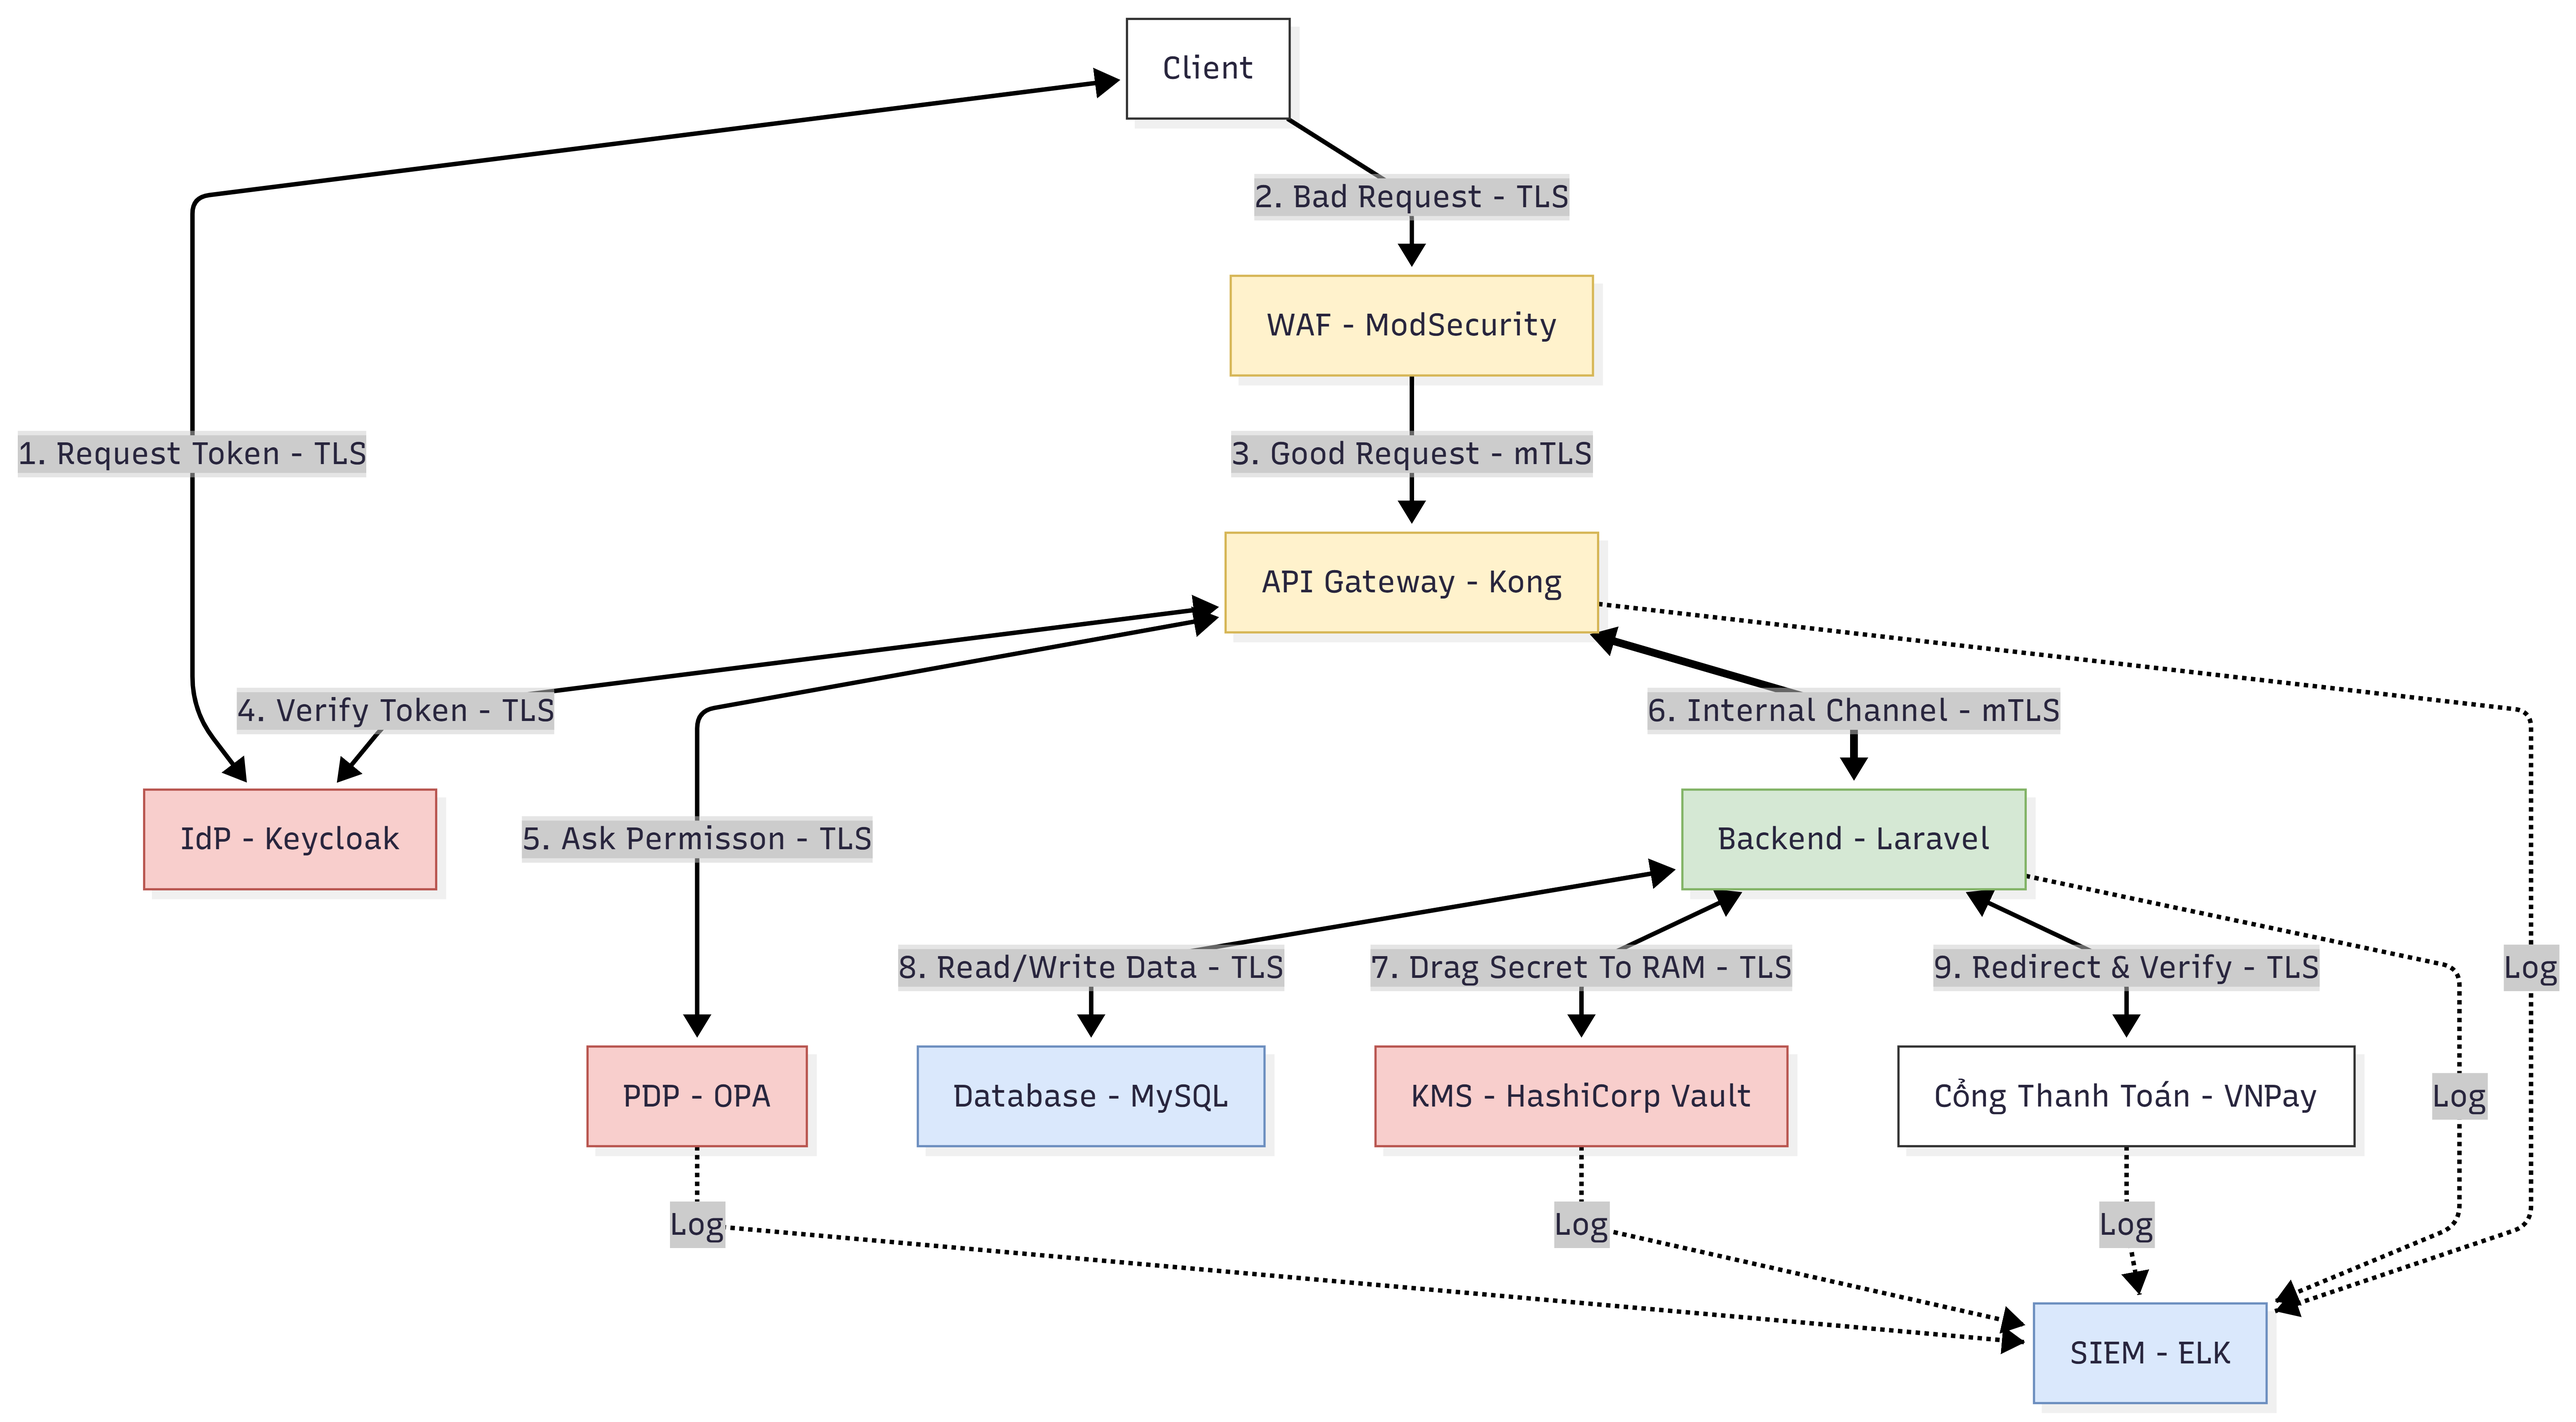
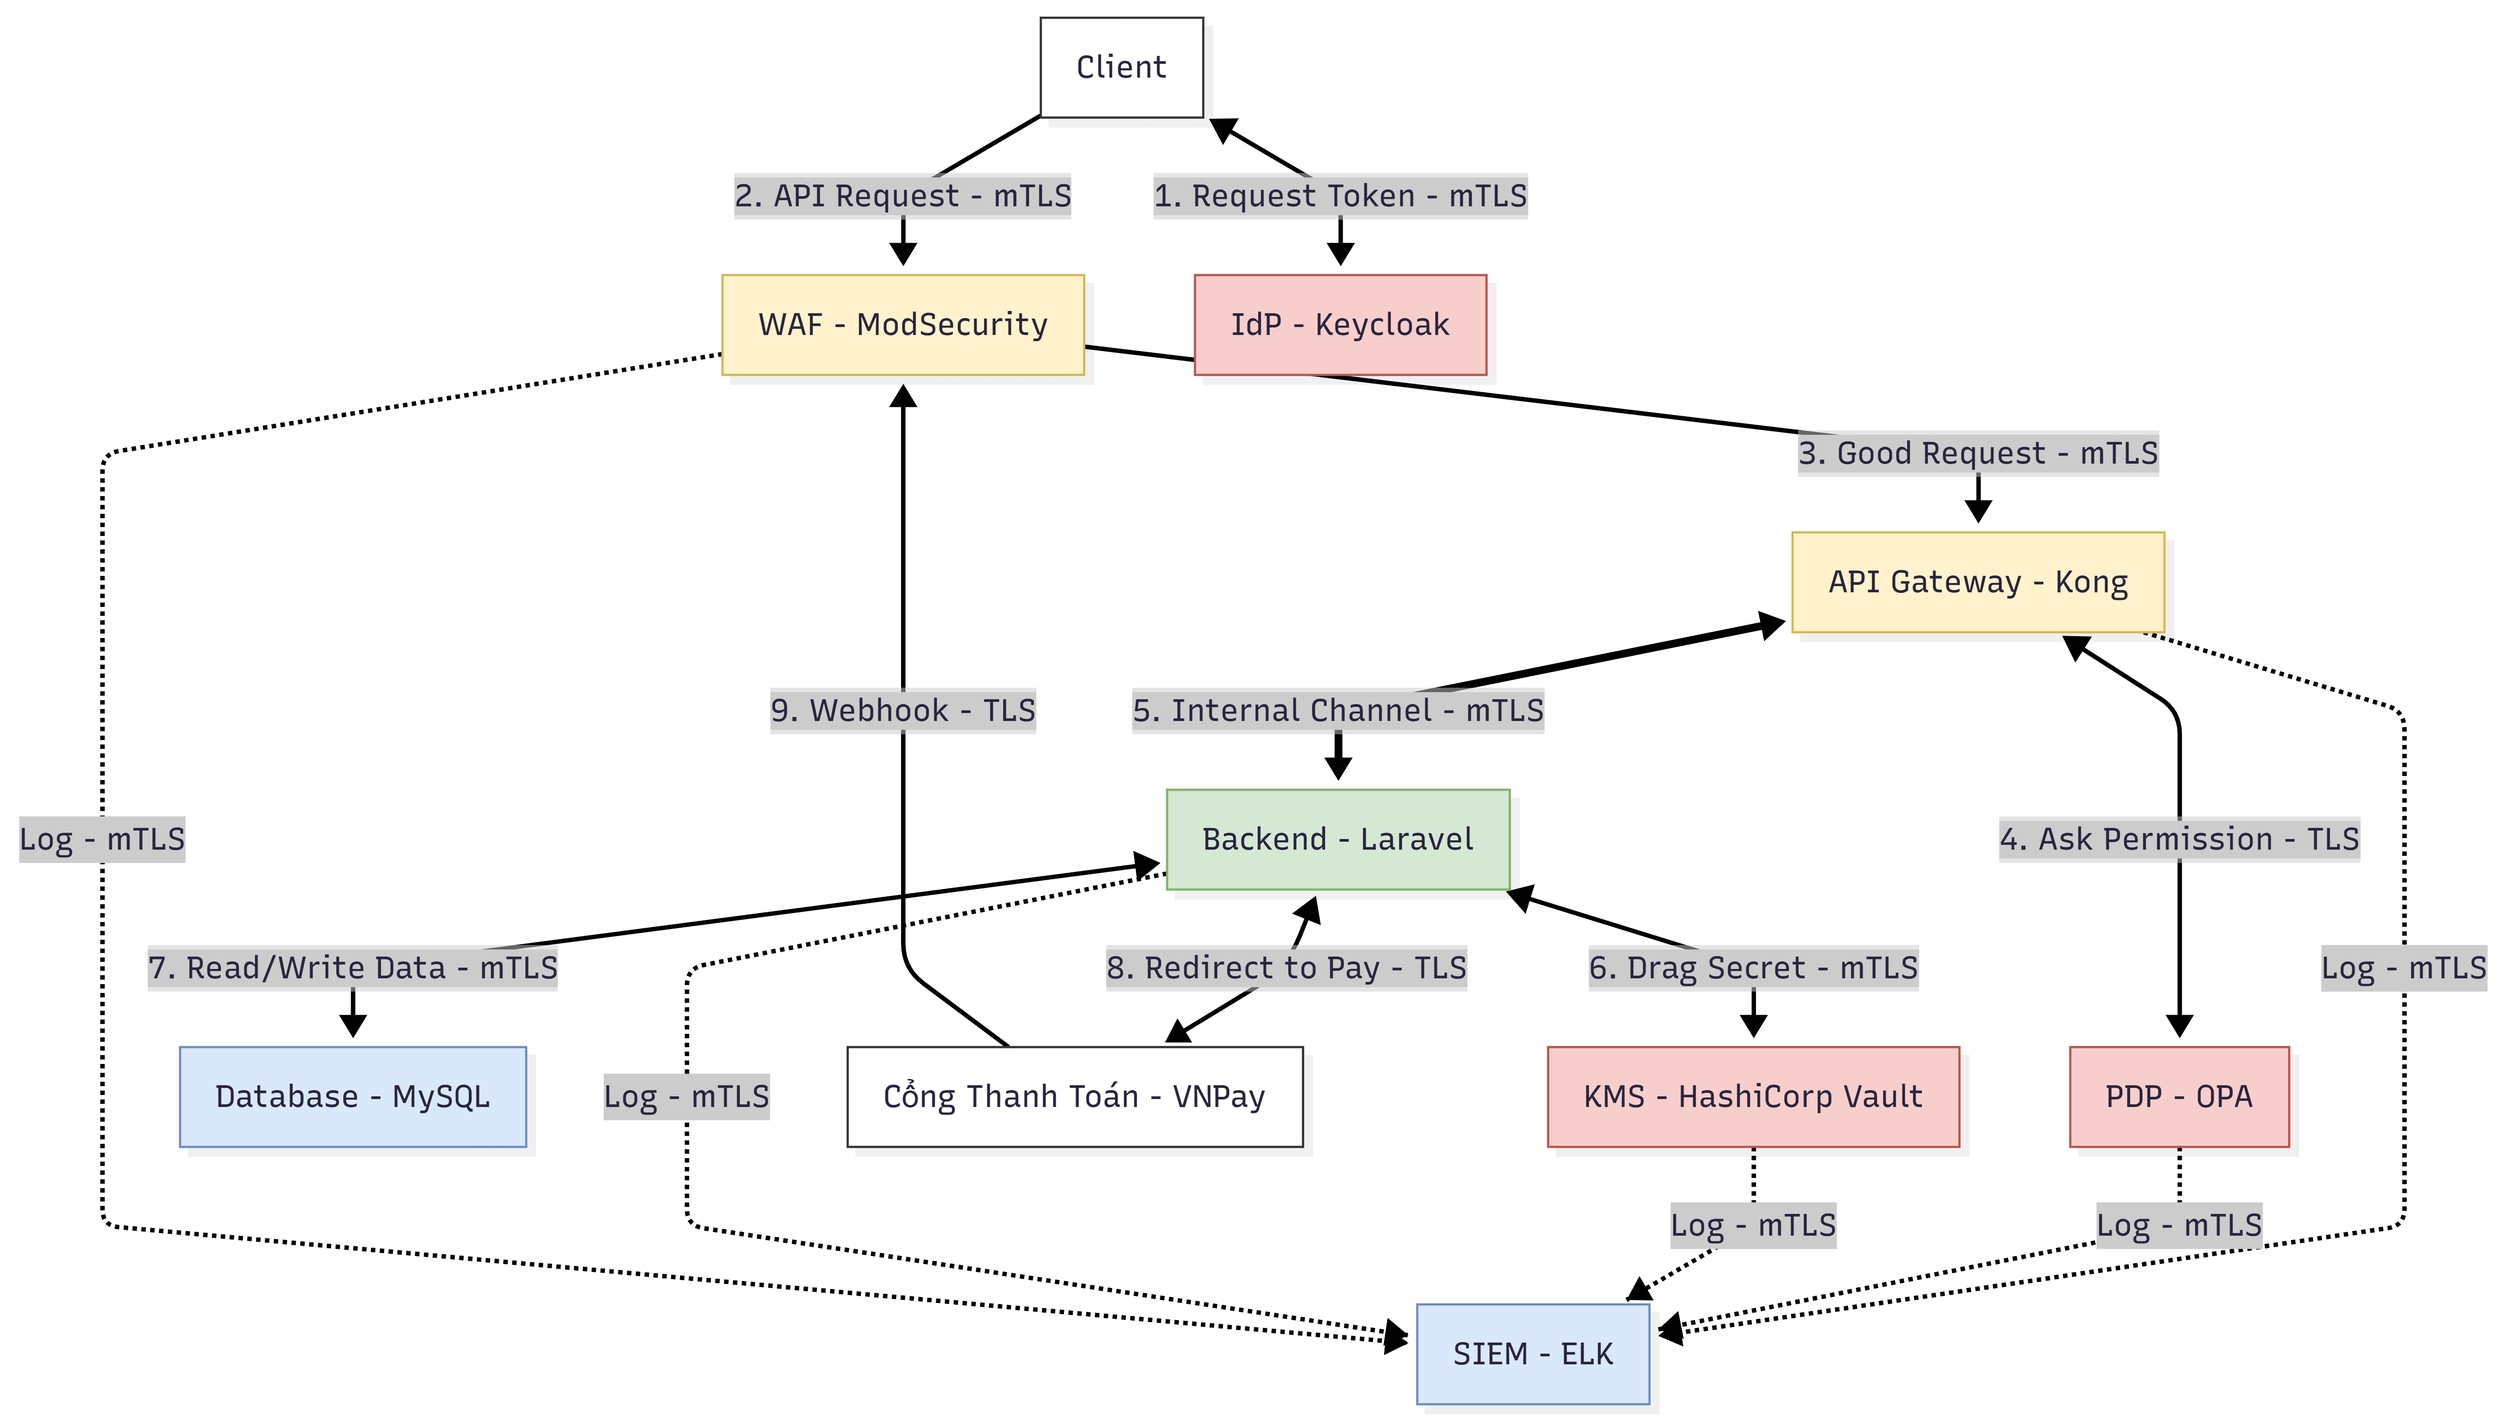
Temp Fix

diff --git a/services/app/Providers/AppServiceProvider.php b/services/app/Providers/AppServiceProvider.php
@@ -23,30 +23,37 @@ class AppServiceProvider extends ServiceProvider
      */
     public function boot(): void
     {
-        $vaultUrl = env('VAULT_URL', 'http://payshield_vault:8200') . '/v1/secret/data/payshield';
+        $vaultUrl = env('VAULT_URL', 'https://payshield_vault:8200') . '/v1/secret/data/payshield';
         $token    = env('VAULT_APP_TOKEN');
 
-        try {
-            /** @var \Illuminate\Http\Client\Response $response */
-            $response = Http::withHeaders([
-                'X-Vault-Token' => $token
-            ])->timeout(3)->get($vaultUrl);
+        if ($token) {
+            try {
+                /** @var \Illuminate\Http\Client\Response $response */
+                $response = Http::withOptions([
+                    'cert'    => [base_path('cert/client.crt')], 
+                    'ssl_key' => [base_path('key/client.key')],
+                    'verify'  => base_path('cert/ca.crt'),
+                ])->withHeaders([
+                    'X-Vault-Token' => $token
+                ])->timeout(5)->get($vaultUrl);
 
-            if ($response->successful()) {
-                $secrets = $response->json()['data']['data'];
-
-                Config::set('app.key', $secrets['APP_KEY']);
-                Config::set('database.connections.mysql.username', $secrets['DB_USERNAME']);
-                Config::set('database.connections.mysql.password', $secrets['DB_PASSWORD']);
-                Config::set('database.connections.mysql.database', $secrets['DB_DATABASE']);
-                Config::set('services.keycloak.admin_user', $secrets['KC_ADMIN_USER'] ?? null);
-                Config::set('services.keycloak.admin_password', $secrets['KC_ADMIN_PASSWORD'] ?? null);
-                Config::set('services.payshield.client_secret', $secrets['CLIENT_SECRET'] ?? null);
-                Config::set('services.payshield.webhook_secret', $secrets['WEBHOOK_SECRET'] ?? null);
-                DB::purge('mysql');
+                if ($response->successful()) {
+                    $secrets = $response->json()['data']['data'];
+                    Config::set('app.key', $secrets['APP_KEY'] ?? null);
+                    Config::set('database.connections.mysql.username', $secrets['DB_USERNAME'] ?? null);
+                    Config::set('database.connections.mysql.password', $secrets['DB_PASSWORD'] ?? null);
+                    Config::set('database.connections.mysql.database', $secrets['DB_DATABASE'] ?? null);
+                    Config::set('services.keycloak.admin_user', $secrets['KC_ADMIN_USER'] ?? null);
+                    Config::set('services.keycloak.admin_password', $secrets['KC_ADMIN_PASSWORD'] ?? null);
+                    Config::set('services.payshield.client_secret', $secrets['CLIENT_SECRET'] ?? null);
+                    Config::set('services.payshield.webhook_secret', $secrets['WEBHOOK_SECRET'] ?? null);
+                    DB::purge('mysql');
+                } else {
+                    Log::error('Vault mTLS Rejected - Status: ' . $response->status() . ' - ' . $response->body());
+                }
+            } catch (\Exception $e) {
+                Log::error('Cannot connect to Vault using mTLS: ' . $e->getMessage());
             }
-        } catch (\Exception $e) {
-            Log::error('Cannot connect to Vault: ' . $e->getMessage());
         }
     }
 }
